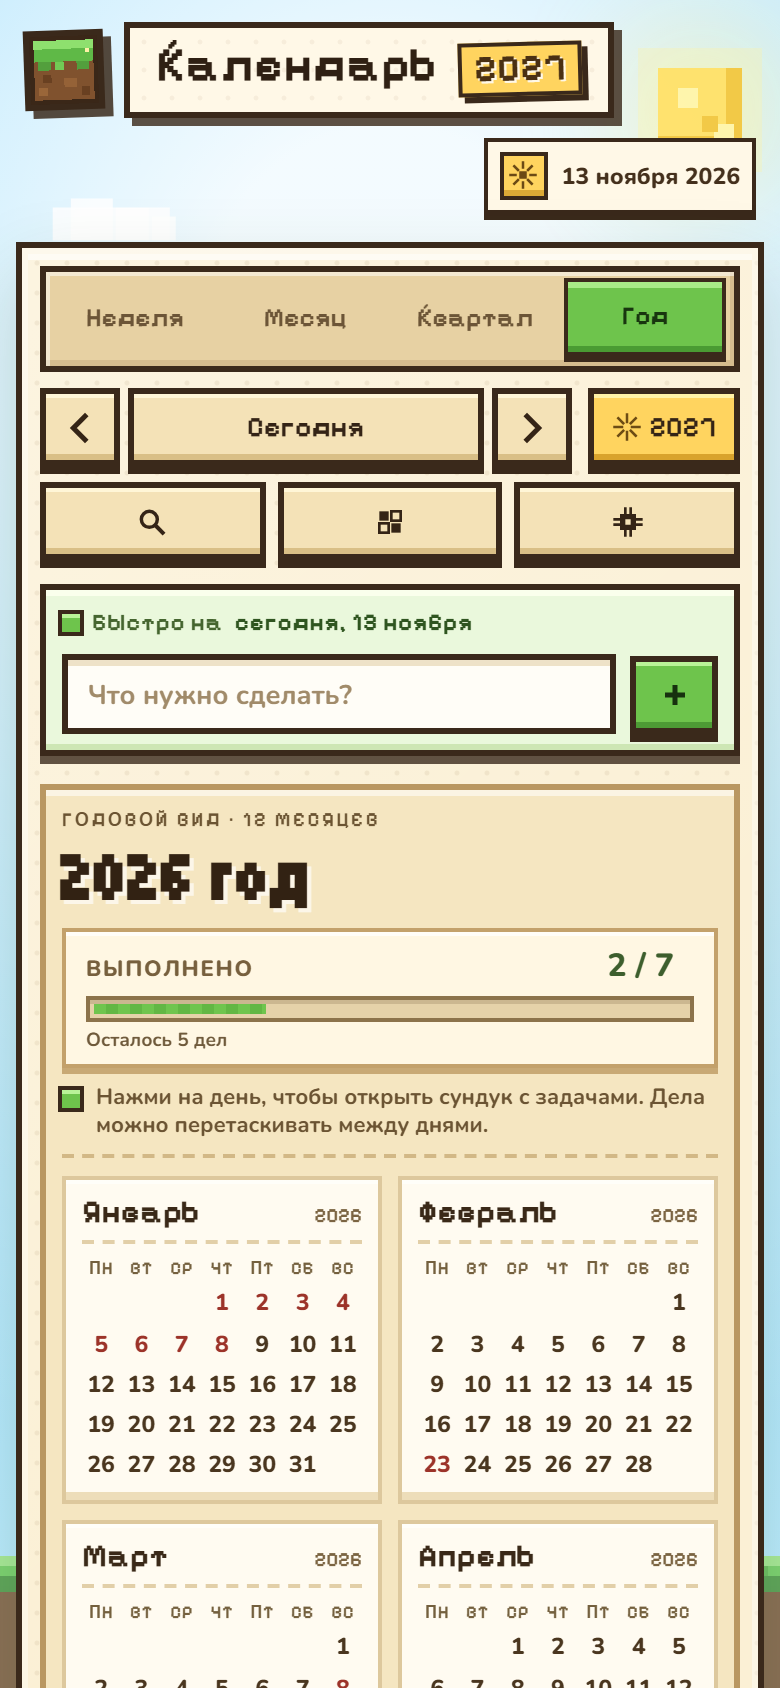
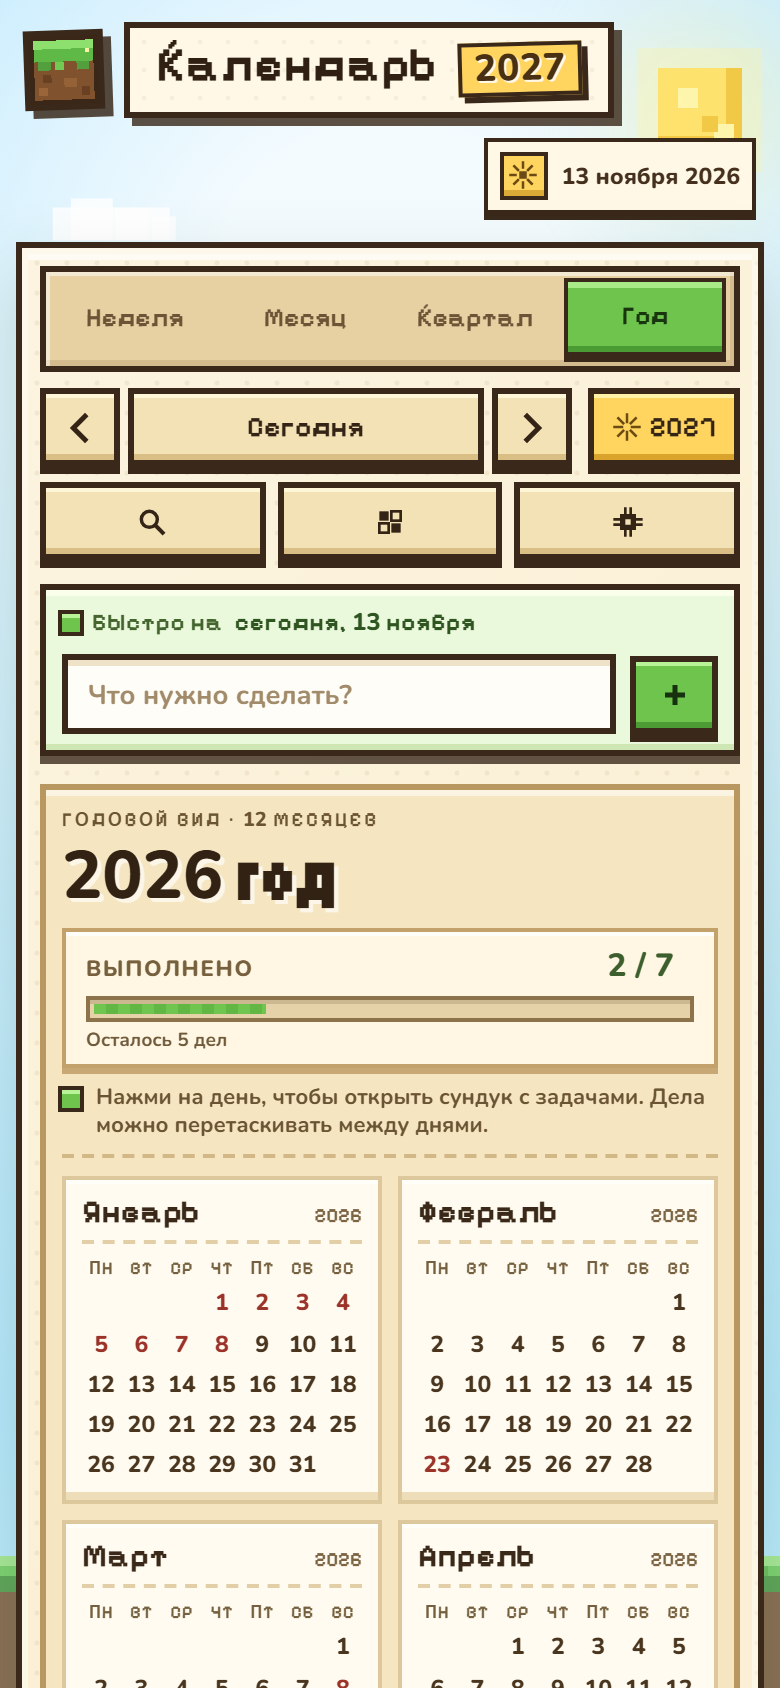
fix(0.12.5): цифры в подписях приложения на Nunito
Заголовок дня, заголовок периода, подпись сегодняшней даты, быстрая строка и год в логотипе
набирают числовые группы Nunito 800 с tabular-nums: у Tiny5 на мелком кегле просвет в 1 px, и
«2026» читается как «8086». Слова остаются пиксельными. Скриншоты README пересняты.

diff --git a/app.js b/app.js
@@ -835,6 +835,23 @@
     return node;
   }
 
+  // Цифры внутри подписи набираем Nunito: Tiny5 слипается на мелком кегле и в «2026»
+  // читается «2086». Текст остаётся пиксельным, меняются только числовые группы.
+  function numberize(node, text) {
+    node.replaceChildren();
+    String(text === undefined || text === null ? "" : text)
+      .split(/(\d+)/)
+      .forEach((part) => {
+        if (!part) return;
+        if (/^\d+$/.test(part)) {
+          node.appendChild(el("span", "num", part));
+        } else {
+          node.appendChild(document.createTextNode(part));
+        }
+      });
+    return node;
+  }
+
   function icon(id) {
     const svg = document.createElementNS("http://www.w3.org/2000/svg", "svg");
     svg.setAttribute("class", "icon");
@@ -847,7 +864,7 @@
 
   function updateTodayLabel() {
     const today = startOfDay(new Date());
-    els.todayLabel.textContent = formatLongDate(today);
+    numberize(els.todayLabel, formatLongDate(today));
     els.todayChip.title = `${capitalize(WEEKDAYS_FULL[today.getDay()])}, ${formatLongDate(today)}`;
   }
 
@@ -861,8 +878,8 @@
 
   function renderPeriod() {
     const copy = periodCopy();
-    els.periodKicker.textContent = copy.kicker;
-    els.periodTitle.textContent = copy.title;
+    numberize(els.periodKicker, copy.kicker);
+    numberize(els.periodTitle, copy.title);
     els.yearJumpBtn.classList.toggle("is-2027", state.cursor.getFullYear() === 2027);
   }
 
@@ -871,7 +888,7 @@
     const date = fromISO(state.selectedDate);
     const today = isSameDay(date, new Date());
     const short = `${date.getDate()} ${MONTHS_GENITIVE[date.getMonth()]}`;
-    els.quickAddDate.textContent = today ? `сегодня, ${short}` : `${short} ${date.getFullYear()}`;
+    numberize(els.quickAddDate, today ? `сегодня, ${short}` : `${short} ${date.getFullYear()}`);
     els.quickAddDate.title = `Быстрое добавление на ${formatLongDate(date)}`;
   }
 
@@ -1415,7 +1432,7 @@
     els.dialogEyebrow.textContent = holiday
       ? `${WEEKDAYS_FULL[date.getDay()]} · ${holiday}`
       : WEEKDAYS_FULL[date.getDay()];
-    els.dialogTitle.textContent = formatLongDate(date);
+    numberize(els.dialogTitle, formatLongDate(date));
     els.daySummaryText.textContent = summary.text;
     els.dayProgressBar.style.width = `${percent}%`;
     els.taskList.setAttribute("aria-label", `Задачи на ${formatLongDate(date)}`);

diff --git a/styles.css b/styles.css
@@ -1065,6 +1065,10 @@ html[data-holiday="on"] .island-grass {
   font-size: 0.78em;
   line-height: 1;
   color: #4a3013;
+  /* Год в логотипе — тоже цифры: Tiny5 на мелком кегле читается как «8087». */
+  font-family: var(--font-num);
+  font-weight: 800;
+  font-variant-numeric: tabular-nums;
 }
 
 .today-chip {
@@ -2301,6 +2305,17 @@ html[data-profile="full"] .day-dialog::backdrop {
   line-height: 1;
   color: #17310f;
   text-shadow: 1px 1px 0 rgba(255, 255, 255, 0.25);
+}
+
+/* Цифры внутри подписей набираем Nunito: у Tiny5 на мелком кегле просвет в 1 px,
+   и «2026» читается как «2086». Слова остаются пиксельными. */
+.num {
+  font-family: var(--font-num);
+  font-size: 1em;
+  font-weight: 800;
+  font-variant-numeric: tabular-nums;
+  letter-spacing: 0;
+  line-height: inherit;
 }
 
 .dialog-close {
